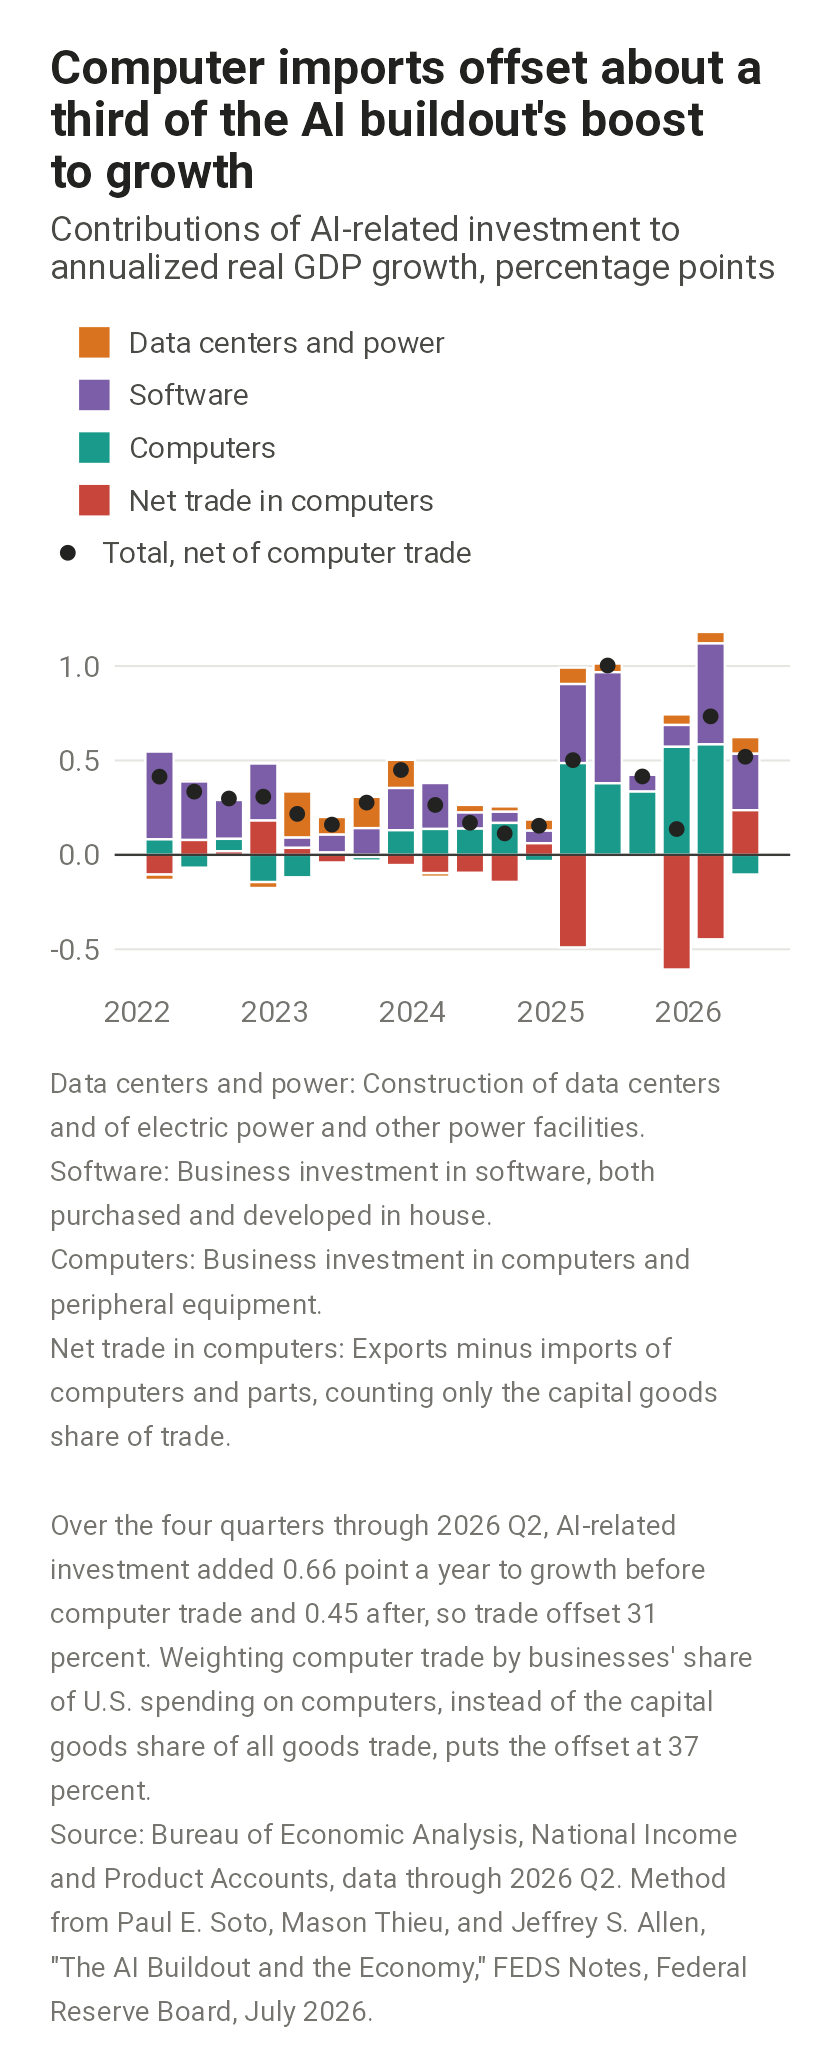
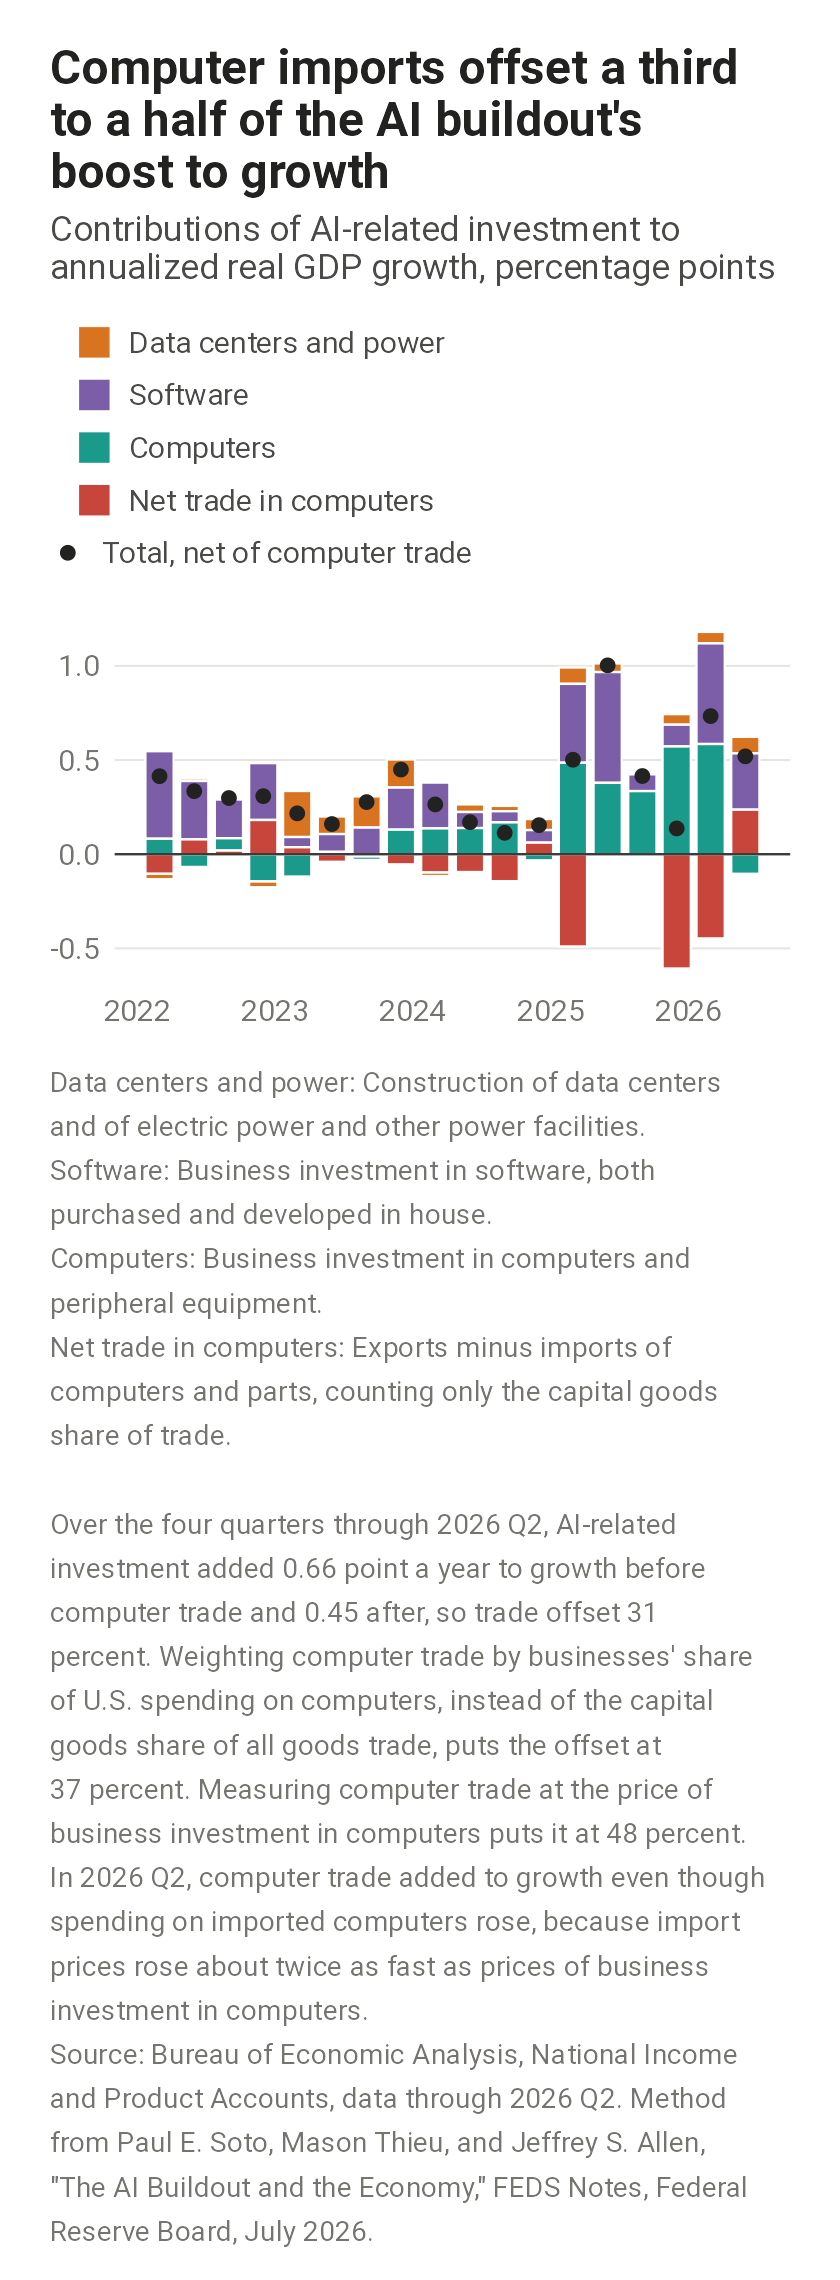
Retitle the AI investment chart to a range and note the 2026 Q2 price gap
The offset is 31% to 48% depending on the trade weight and deflator, so
the title says a third to a half. The notes give all three figures,
computed from the data, and explain that 2026 Q2 computer trade added
to growth because import prices outpaced investment prices.

Claude-Session: https://claude.ai/code/session_01C4kQtTHdakDNHHerQuEFwM

diff --git a/charts/ai-investment-gdp/spec.md b/charts/ai-investment-gdp/spec.md
@@ -1,6 +1,6 @@
 # AI-related investment's contribution to GDP growth
 
-Status: built in R from BEA data fetched on 2026-09-26, through 2026 Q2. Reproduces the published figure exactly. Title is a draft for review.
+Status: built in R from BEA data fetched on 2026-09-26, through 2026 Q2. Reproduces the published figure exactly under the FEDS method. Title is a draft for review.
 
 ## Question
 
@@ -130,7 +130,6 @@ Findings, annualized quarterly price growth:
 
 As of 2026-09-26. Not yet decided or done.
 
-- **Title and the price gap.** The four-quarter offset is 31% under the FEDS method, 37% with the BEA trade weight, and 48% when computer trade is deflated with the investment price (see Import price check). The positive 2026 Q2 trade bar comes from import prices rising faster than investment prices, not from fewer imports, and 2026 Q3 will likely show the same. Options: keep the title and add a note on the 2026 Q2 price gap; or change the title to a range, such as "a third to a half". Undecided.
 - **Semiconductors.** Census end-use semiconductor imports doubled between 2025 Q3 and 2026 Q2, from $67 billion to $138 billion at an annual rate. The FEDS method excludes them; ING includes them.
 - **Colors.** Orange means data centers and power here and utilization on the productivity chart, on the same page.
 
@@ -149,3 +148,5 @@ As of 2026-09-26. Not yet decided or done.
 - 2026-09-26: Built a weight from BEA's domestic spending on computers. It gives a 37% offset against the FEDS weight's 31%. The product mix weight is ruled out by the domestic content check.
 - 2026-09-26: Keep the FEDS weight on the chart, for exact replication. A note gives the offset under the BEA weight, computed from the data so it updates on refresh. Revisit if the two move apart.
 - 2026-09-26: Checked the 2026 Q2 jump in computer import prices against BLS. It is real and concentrated in parts; it outpaced BEA's investment price, which is what turns 2026 Q2 computer trade positive.
+- 2026-09-26: Title: "Computer imports offset a third to a half of the AI buildout's boost to growth." Over the four quarters through 2026 Q2 the offset is 31% under the FEDS method, 37% with the BEA trade weight, and 48% with computer trade at the investment price; all three are in the notes and computed from the data. Replaces the earlier "about a third."
+- 2026-09-26: Note that 2026 Q2 computer trade added to growth because import prices rose about twice as fast as investment prices. This sentence is written for 2026 Q2 and must be revisited on the next refresh.
